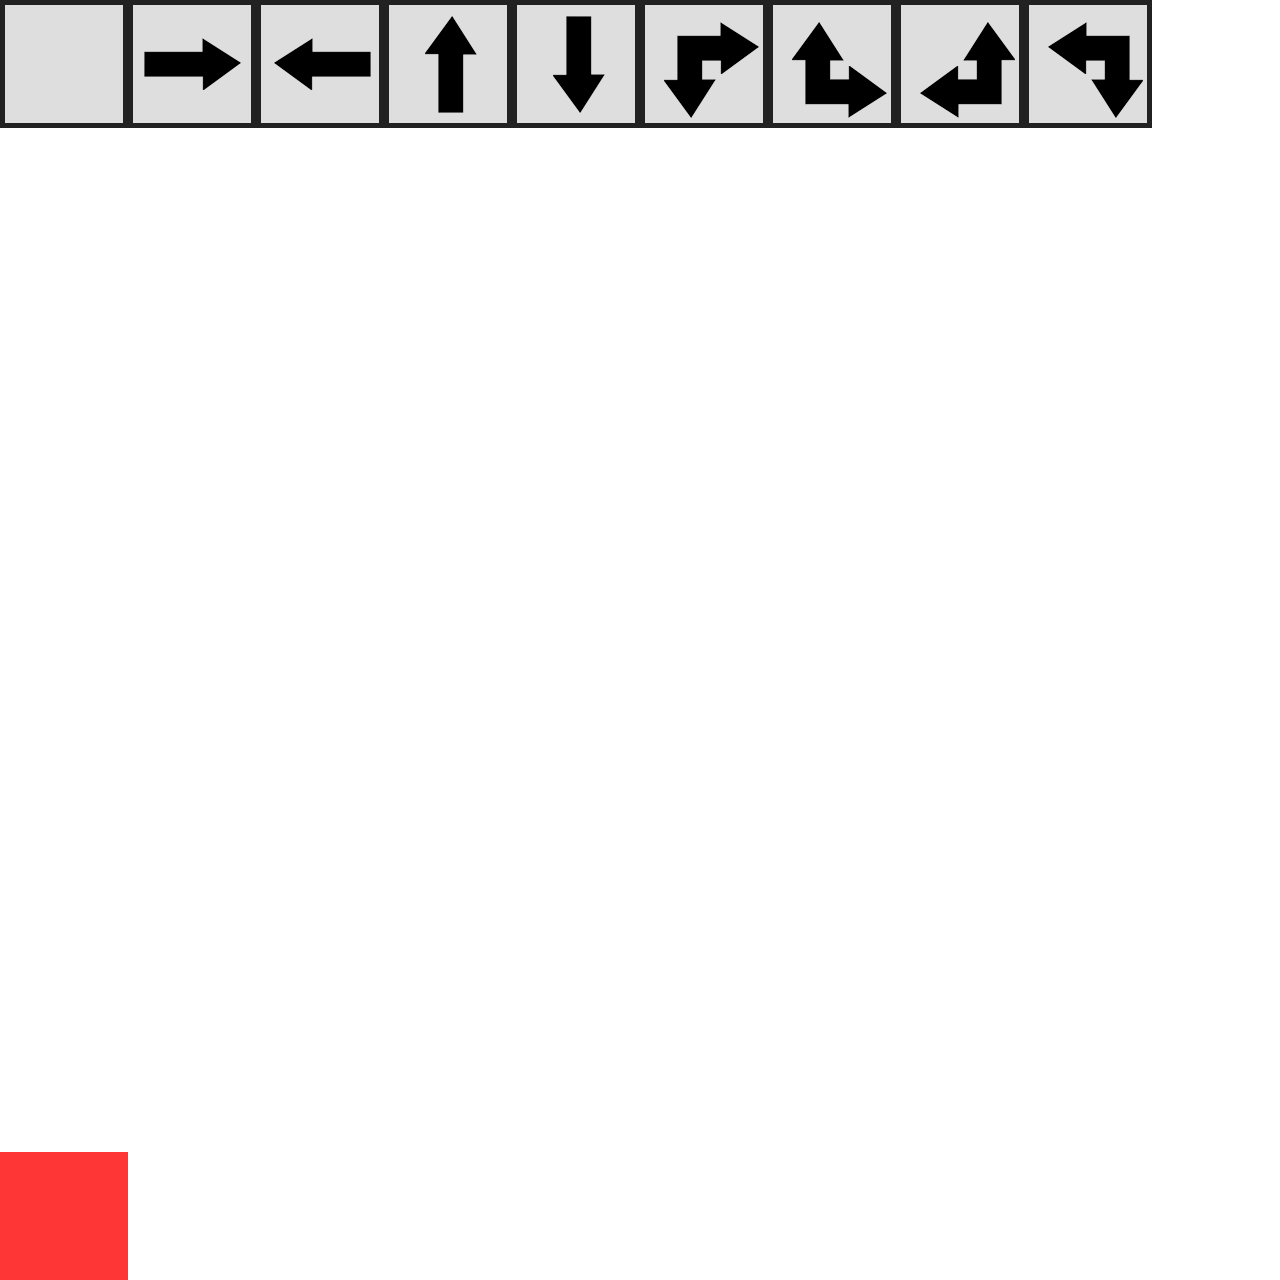
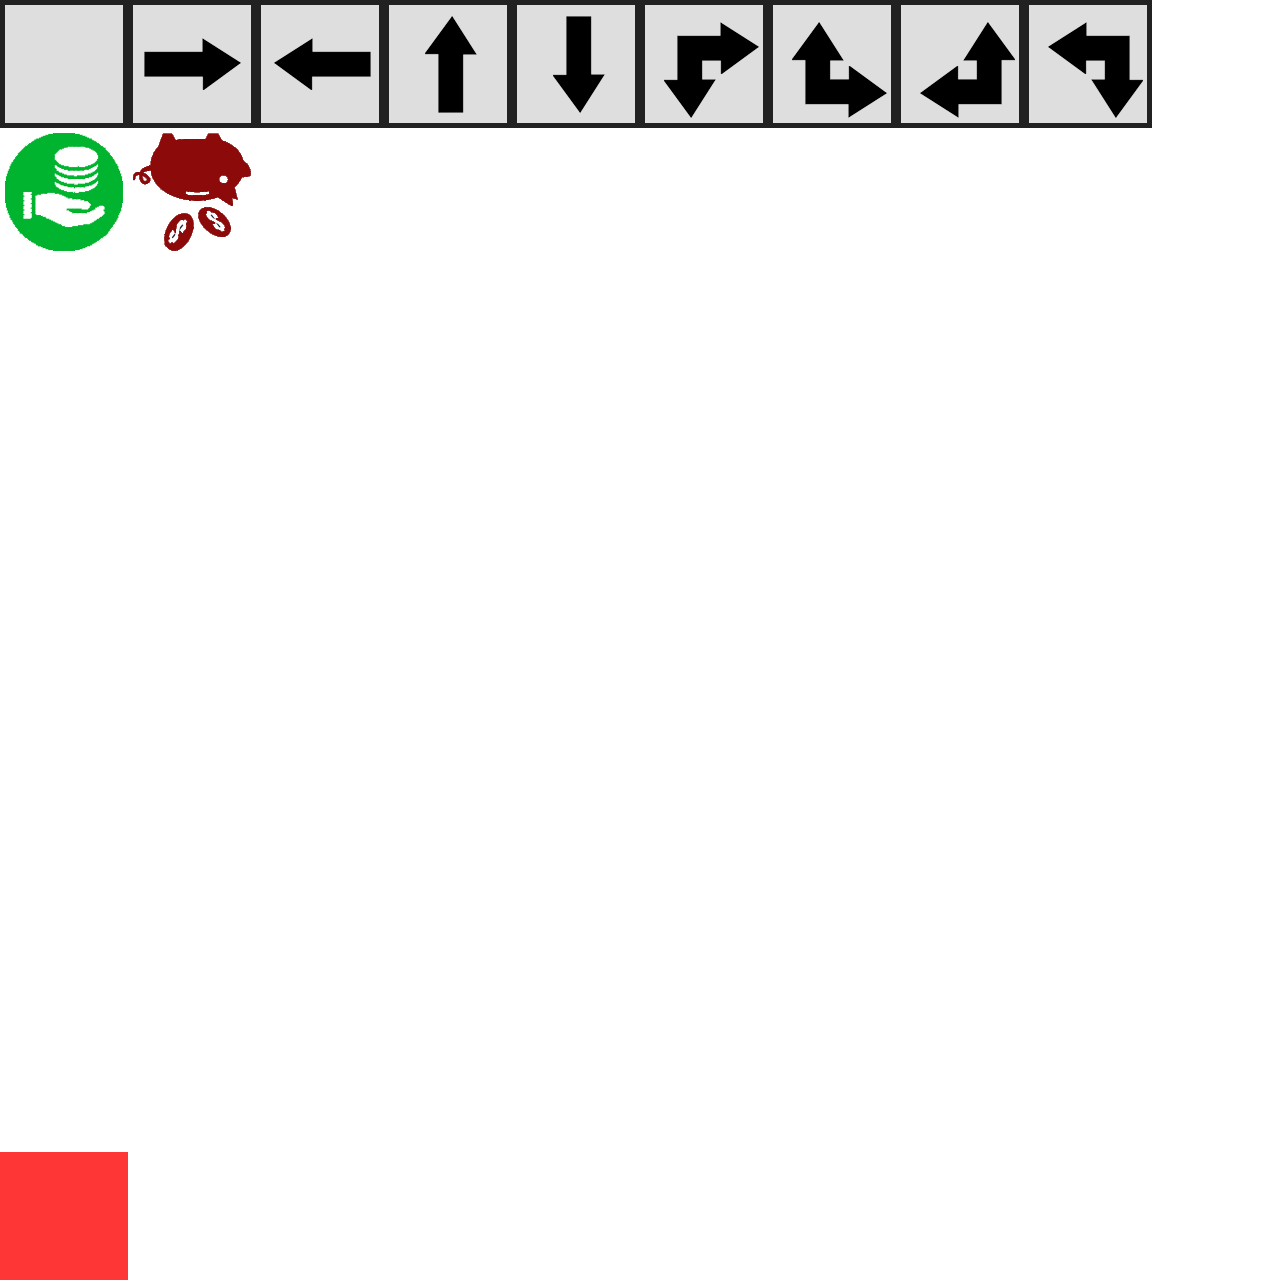
added example tile types

Changed region(s): [[0.0, 0.0938, 0.2188, 0.2188]]

diff --git a/client/src/states/Main.js b/client/src/states/Main.js
@@ -25,6 +25,7 @@ class Main extends Phaser.State {
 		this.board = this.add.tilemap('board');
 		this.board.addTilesetImage('tiles', 'tiles');
 		this.baselayer = this.board.createLayer('boardLayer');
+		this.baselayer = this.board.createLayer('type');
 
 		this.numOfPlayers = 4;
 

diff --git a/client/src/objects/PrintTile.js b/client/src/objects/PrintTile.js
@@ -1,0 +1,12 @@
+class PrintTile {
+
+  constructor() {
+
+  }
+
+  update(){
+  }
+
+}
+
+export default PrintTile;

diff --git a/client/src/objects/CoinTile.js b/client/src/objects/CoinTile.js
@@ -1,0 +1,12 @@
+class CoinTile {
+
+  constructor() {
+
+  }
+
+  update(){
+  }
+
+}
+
+export default CoinTile;
